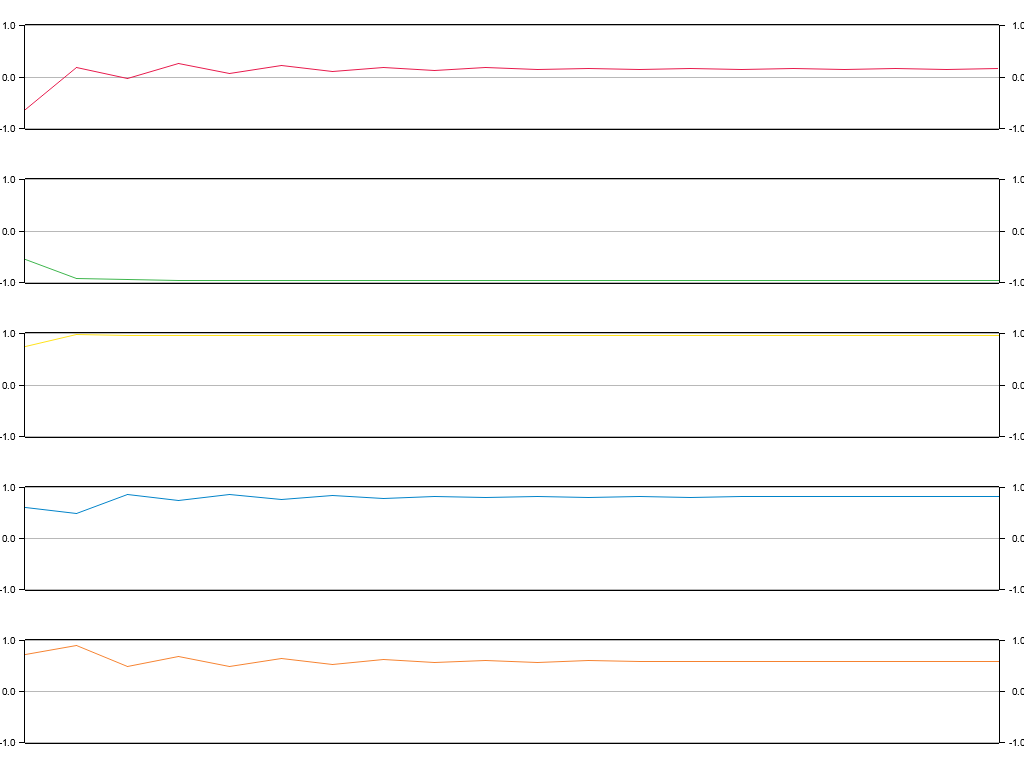
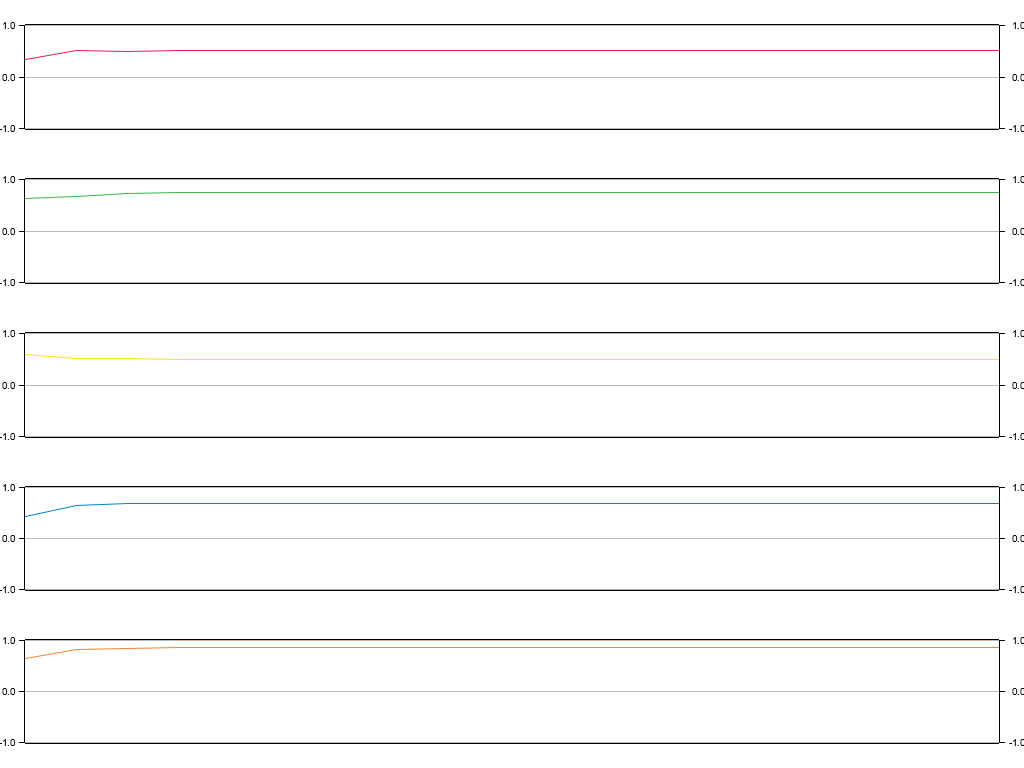
update

diff --git a/app/src/main.rs b/app/src/main.rs
@@ -36,35 +36,34 @@ struct SimpleGrayscale(u8);
 
 impl Phenotype for SimpleGrayscale {}
 
-// //TODO: Rename later
-// #[derive(Debug, Clone)]
-// struct RealPhenotype(f32);
+#[derive(Debug, Clone)]
+struct Position {
+    x: f32,
+    y: f32,
+}
 
-// impl Phenotype for RealPhenotype {}
+/// This phenotype/solution to the problem is a line follower.
+/// If the agent/retina(TBD) can stay in each iteration step on the line(the center pixel of the image)
+/// the higher the fitness value will be.
+#[derive(Debug, Clone)]
+struct FollowLine {
+    // store only the difference between the current position and the position
+    // of the last iteration
+    delta_position: Position,
+}
 
-struct Population<G: Genotype, P: Phenotype> {
-    agents: Vec<Agent<G,P>>,
+impl Phenotype for FollowLine {}
+
+struct Population<G: Genotype> {
+    agents: Vec<Agent<G>>,
     generation: u32,
 }
 
-impl std::fmt::Display for Population<RNN, SimpleGrayscale> {
-    fn fmt(&self, f: &mut std::fmt::Formatter<'_>) -> std::fmt::Result {
-        writeln!(f, "Generation: {}", self.generation)?;
-        for agent in &self.agents {
-            writeln!(f, "Agent: {}", agent.genotype)?;
-            writeln!(f, "Fitness: {}", agent.fitness)?;
-            writeln!(f, "Phenotype: {:?}", agent.genotype.map_to_phenotype())?;
-            writeln!(f, "___")?;
-        }
-        Ok(())
-    }
-}
-
-impl Population<RNN, SimpleGrayscale> {
+impl Population<Rnn> {
     fn new(size: usize) -> Self {
         let agents = (0..size)
             .map(|_| Agent::new(NEURON_PER_RNN))
-            .collect::<Vec<Agent<RNN, SimpleGrayscale>>>();
+            .collect();
         Population {
             agents,
             generation: 0,
@@ -72,23 +71,21 @@ impl Population<RNN, SimpleGrayscale> {
     }
 }
 
-struct Agent<G: Genotype, P: Phenotype> {
+struct Agent<G: Genotype> {
     fitness: f64,
     genotype: G,
-    phenotype: P,
 }
 
-impl Clone for Agent<RNN, SimpleGrayscale> {
+impl Clone for Agent<Rnn> {
     fn clone(&self) -> Self {
         Agent {
             fitness: self.fitness,
             genotype: self.genotype.clone(),
-            phenotype: self.phenotype.clone(),
         }
     }
 }
 
-impl AgentEvaluation<SimpleGrayscale> for Agent<RNN, SimpleGrayscale> {
+impl AgentEvaluation<SimpleGrayscale> for Agent<Rnn> {
     fn calculate_fitness(&self, data: SimpleGrayscale) -> f64 {
         let correct_greyscale = data.0 as f64;
         let agent_greyscale = self.genotype.map_to_phenotype().0 as f64;
@@ -113,22 +110,11 @@ impl AgentEvaluation<SimpleGrayscale> for Agent<RNN, SimpleGrayscale> {
     }
 }
 
-// impl Clone for Agent<RNN, RealPhenotype> {
-//     fn clone(&self) -> Self {
-//         Agent {
-//             fitness: 0.,
-//             genotype: self.genotype.clone(),
-//             phenotype: self.phenotype.clone(),
-//         }
-//     }
-// }
-
-impl Agent<RNN, SimpleGrayscale> {
+impl Agent<Rnn> {
     fn new(number_of_neurons: usize) -> Self {
         Agent {
             fitness: 0.0,
-            genotype: RNN::new(number_of_neurons),
-            phenotype: SimpleGrayscale(0),
+            genotype: Rnn::new(number_of_neurons),
         }
     }
 }
@@ -168,18 +154,6 @@ impl ShortTermMemory {
 
     /// function that returns a list of tuples of (timestep, neuron_output) as a vector
     /// for evry snapshot that was already saved so that it can be visualized
-    /// E.g. if we saved two snapshots at timestep 0 and 1, the function will return (asuuming we have 5 neurons)
-    /// [
-    ///     [
-    ///         (1, get_snapshot_at_timestep(1).outputs[0]),
-    ///         (2, get_snapshot_at_timestep(2).outputs[0])
-    ///     ],
-    ///     [
-    ///         (1, get_snapshot_at_timestep(1).outputs[1]),
-    ///         (2, get_snapshot_at_timestep(2).outputs[1])
-    ///     ],
-    ///    [...]
-    /// ]
     fn get_visualization_data(&self) -> Option<Vec<Vec<(u32, f64)>>> {
         let mut data = vec![];
         for idx in 0..self.get_neuron_count() {
@@ -241,31 +215,14 @@ struct SnapShot {
 }
 
 #[derive(Clone)]
-struct RNN {
+struct Rnn {
     neurons: Vec<Neuron>,
     short_term_memory: ShortTermMemory,
 }
 
-impl Genotype for RNN {}
+impl Genotype for Rnn {}
 
-impl std::fmt::Display for RNN {
-    fn fmt(&self, f: &mut std::fmt::Formatter<'_>) -> std::fmt::Result {
-        for neuron in &self.neurons {
-            write!(f, "Neuron {}:", neuron.index)?;
-            write!(f, " self activation: {}", neuron.self_activation)?;
-            write!(f, " bias: {}", neuron.bias)?;
-            writeln!(f, " output: {}", neuron.output)?;
-            writeln!(f, "Input neurons:")?;
-            for (index, weight) in &neuron.input_connections {
-                writeln!(f, " Neuron: {} with input weight {}", index, weight)?;
-            }
-            writeln!(f, "___")?;
-        }
-        Ok(())
-    }
-}
-
-impl GenotypePhenotypeMapping<SimpleGrayscale> for RNN {
+impl GenotypePhenotypeMapping<SimpleGrayscale> for Rnn {
     fn map_to_phenotype(&self) -> SimpleGrayscale {
         let num_neurons = 3;
         let greyscale = self.neurons
@@ -279,27 +236,29 @@ impl GenotypePhenotypeMapping<SimpleGrayscale> for RNN {
     }
 }
 
-impl RNN {
+impl Rnn {
     fn new(neuron_count: usize) -> Self {
         let mut neurons = vec![];
         for i in 0..neuron_count {
-            let neuron = Neuron::new(i);
+            let neuron = Neuron::new(i, neuron_count);
             neurons.push(neuron);
         }
 
         // connect all neurons with each other
+        // with the Xavier initialization
+        let (lower, upper) = (-1.0 / (neuron_count as f64).sqrt(), 1.0 / (neuron_count as f64).sqrt());
         neurons
             .iter_mut()
             .enumerate()
             .for_each(|(index, neuron)| {
                 for i in 0..neuron_count {
                     if i != index {
-                        neuron.input_connections.push((i, thread_rng().gen_range(-1.0..=1.0)));
+                        neuron.input_connections.push((i, thread_rng().gen_range(lower..=upper)));
                     }
                 }
             });
         
-        RNN {
+        Rnn {
             neurons,
             short_term_memory: ShortTermMemory::new(),
         }
@@ -348,14 +307,15 @@ struct Neuron {
 }
 
 impl Neuron {
-    fn new(index: usize) -> Self {
+    fn new(index: usize, neuron_count: usize) -> Self {
+        let (lower, upper) = (-1.0 / (neuron_count as f64).sqrt(), 1.0 / (neuron_count as f64).sqrt());
         Neuron {
             index,
             output: 0.,
             input_connections: vec![],
             bias: thread_rng().gen_range(-1.0..=1.0),
-            // randomize self activation between -1 and 1
-            self_activation: thread_rng().gen_range(-1.0..=1.0),
+            // randomize self activation with the Xavier initialization
+            self_activation: thread_rng().gen_range(lower..=upper),
         }
     }
 }
@@ -412,7 +372,7 @@ mod tests {
 
     #[test]
     fn test_map_to_phenotype_greyscale() {
-        let mut rnn = RNN::new(3);
+        let mut rnn = Rnn::new(3);
         rnn.neurons[0].output = 0.97;
         rnn.neurons[1].output = 0.88;
         rnn.neurons[2].output = 0.39;
@@ -421,7 +381,7 @@ mod tests {
     }
     #[test]
     fn test_map_to_phenotype_greyscale_1() {
-        let mut rnn = RNN::new(3);
+        let mut rnn = Rnn::new(3);
         rnn.neurons[0].output = 0.5;
         rnn.neurons[1].output = 0.5;
         rnn.neurons[2].output = 0.5;
@@ -431,7 +391,7 @@ mod tests {
 
     #[test]
     fn test_map_to_phenotype_greyscale_2() {
-        let mut rnn = RNN::new(3);
+        let mut rnn = Rnn::new(3);
         rnn.neurons[0].output = 0.0;
         rnn.neurons[1].output = 0.0;
         rnn.neurons[2].output = 0.0;
@@ -441,7 +401,7 @@ mod tests {
 
     #[test]
     fn test_map_to_phenotype_greyscale_3() {
-        let mut rnn = RNN::new(3);
+        let mut rnn = Rnn::new(3);
         rnn.neurons[0].output = 1.0;
         rnn.neurons[1].output = 1.0;
         rnn.neurons[2].output = 1.0;
@@ -483,7 +443,7 @@ mod tests {
         use utils::round_to_decimal_places;
 
         let mut rng = ChaCha8Rng::seed_from_u64(2);
-        let mut rnn = RNN::new(2);
+        let mut rnn = Rnn::new(2);
 
         // randomize the weights and self activations with a custom seed and set the bias to 1.0
         rnn.neurons
@@ -516,7 +476,7 @@ mod tests {
         use utils::round_to_decimal_places;
 
         let mut rng = ChaCha8Rng::seed_from_u64(2);
-        let mut rnn = RNN::new(3);
+        let mut rnn = Rnn::new(3);
 
         // randomize the weights and self activations with a custom seed and set the bias to 1.0
         rnn.neurons
@@ -587,7 +547,7 @@ mod tests {
         // after each update create a snapshot
         // check if the snapshots are correct
         
-        let mut rnn = RNN::new(3);
+        let mut rnn = Rnn::new(3);
         rnn.neurons[0].output = 0.97;
         rnn.neurons[1].output = 0.88;
         rnn.neurons[2].output = 0.39;
@@ -611,7 +571,7 @@ mod tests {
         // update the rnn 5 times
         // after each update create a snapshot
         // visualize the rnn
-        let mut rnn = RNN::new(3);
+        let mut rnn = Rnn::new(3);
 
         for i in 1..=5 {
             rnn.update();
